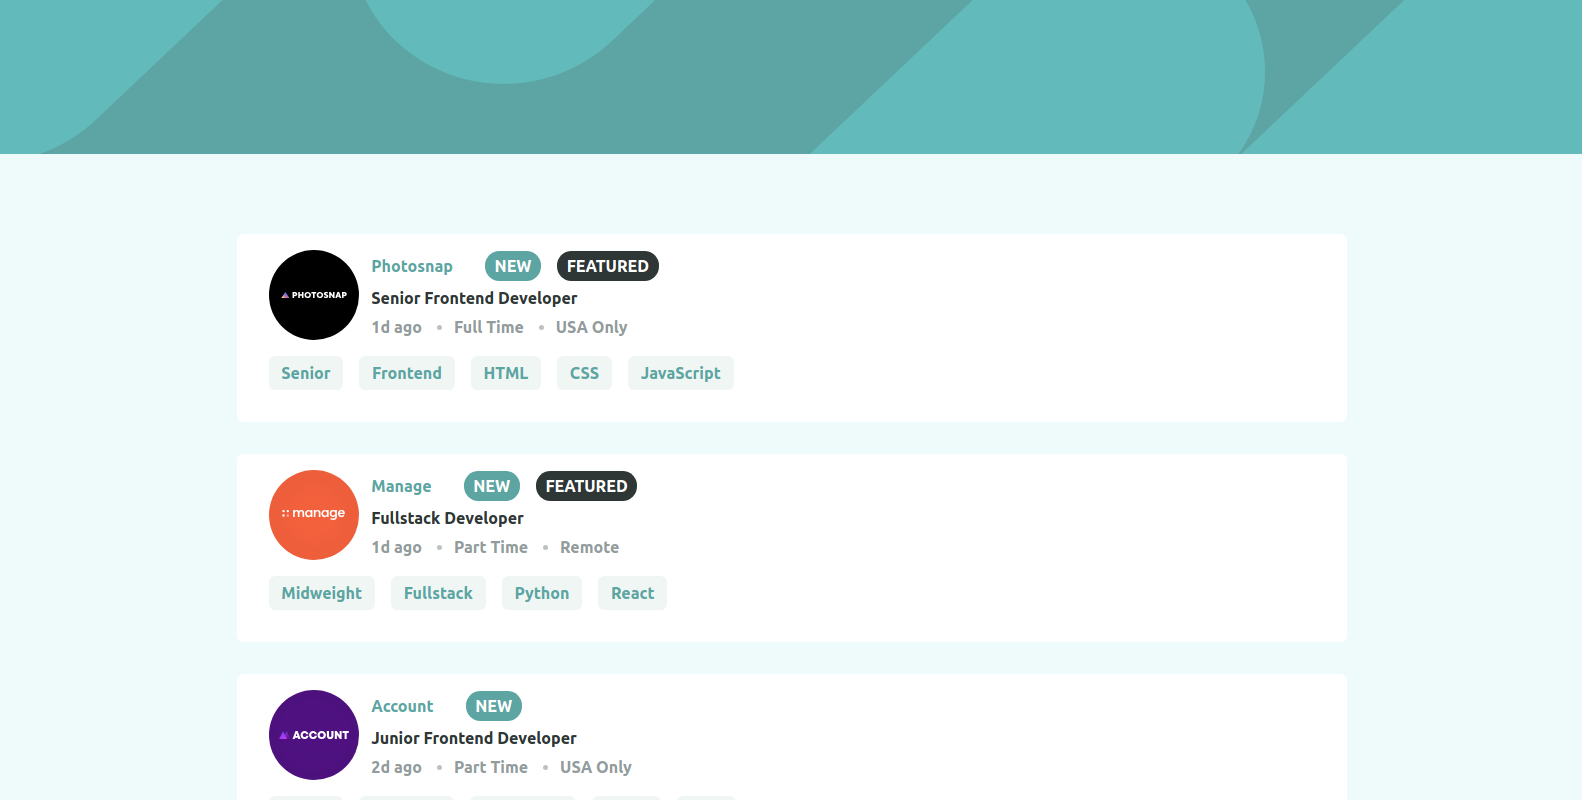
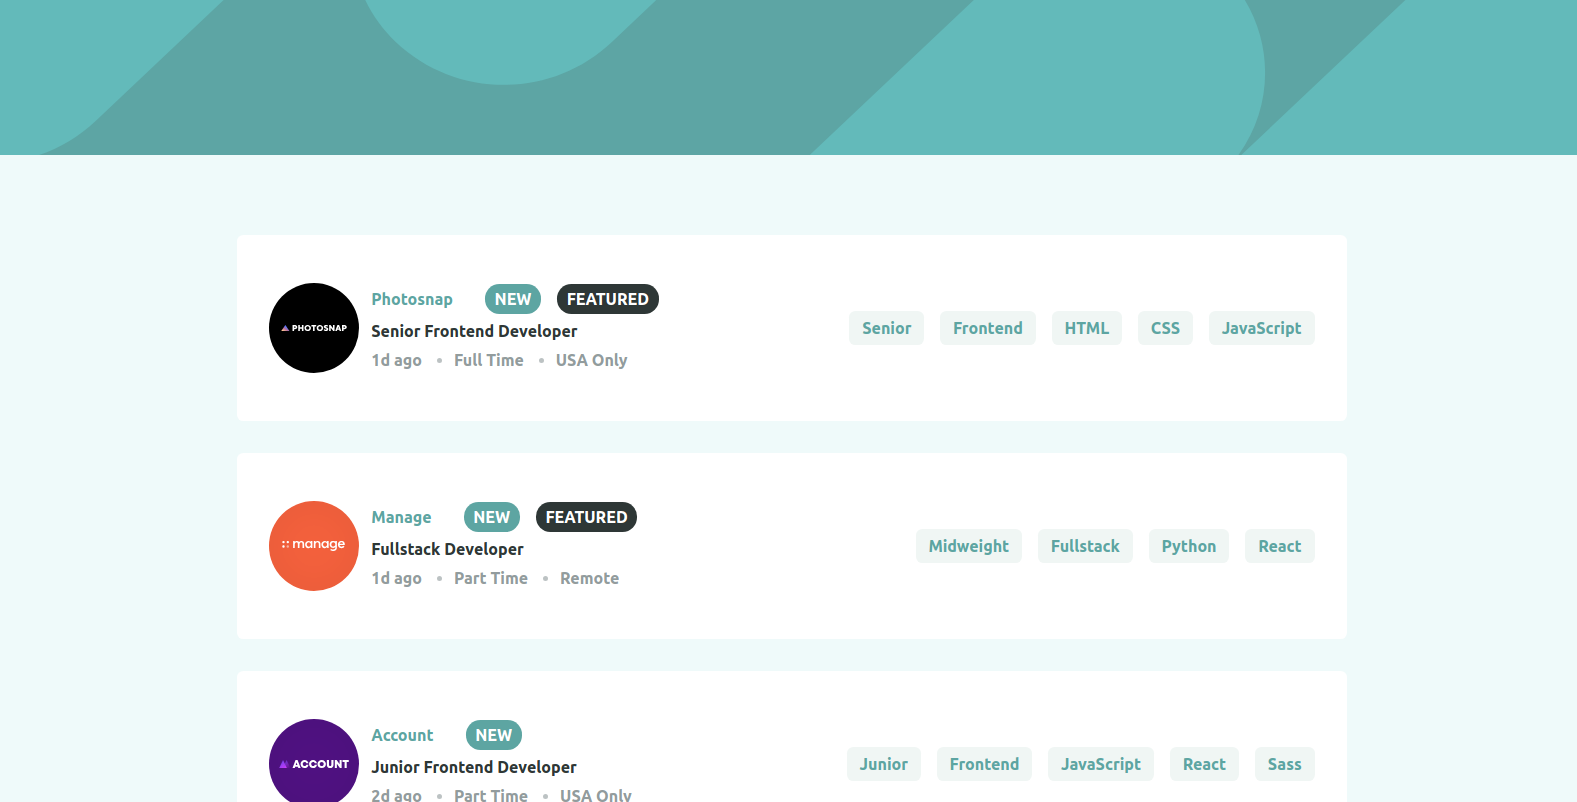
Readme editado

diff --git a/staticJobList/src/app/components/card-job/card-job.component.scss b/staticJobList/src/app/components/card-job/card-job.component.scss
@@ -11,6 +11,12 @@
   @media screen and (min-width:toRem(700)){
     padding-top: 1rem;
   }
+  @media screen and (min-width:toRem(1100)){
+    display: grid;
+    grid-template-columns: repeat(2,1fr);
+    padding-block: 3rem;
+    align-items: center;
+  }
   &-header {
     display: flex;
     flex-flow: column wrap;
@@ -68,10 +74,14 @@
       &::marker{
         color: #929c9d9c;
         padding-left: .5rem;
-      }      
+      }
     }
   }
-
+  &-footer {
+    @media screen and (min-width:toRem(1100)) {
+      justify-self: flex-end;
+    }
+  }
   &-filterBtns {
     border-top: solid 1px var(--letterSecondary);
     display: flex;
@@ -80,7 +90,7 @@
     padding-block: 1rem;
     @media screen and (min-width:toRem(700)){
       border-top: initial;
+      flex-flow: row nowrap;
     }
   }
 }
-

diff --git a/staticJobList/src/app/components/card-job/card-job.component.html b/staticJobList/src/app/components/card-job/card-job.component.html
@@ -21,7 +21,7 @@
       </ul>
     </div>
   </header>
-  <footer>
+  <footer class="cardJob-footer">
     <div class="cardJob-filterBtns">
       <app-btn-base *ngFor="let btn of btnTagList"
         [textBtn]="btn"
